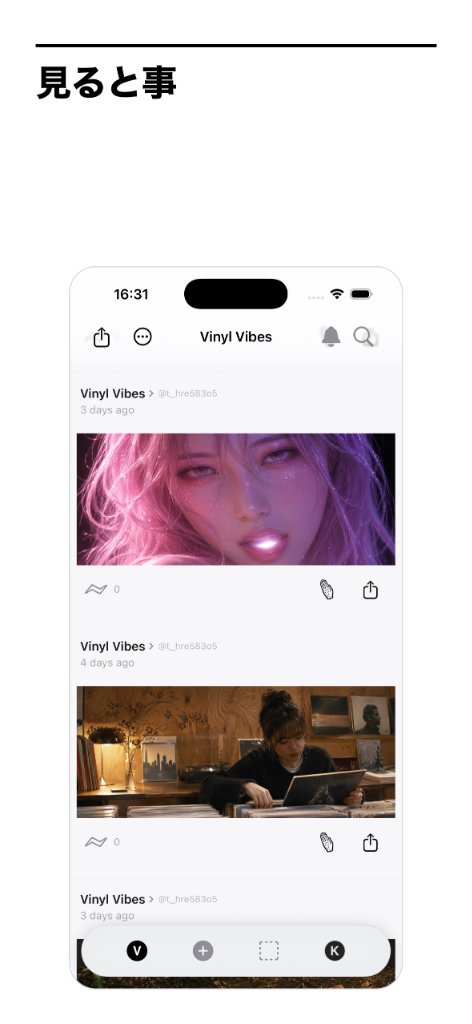
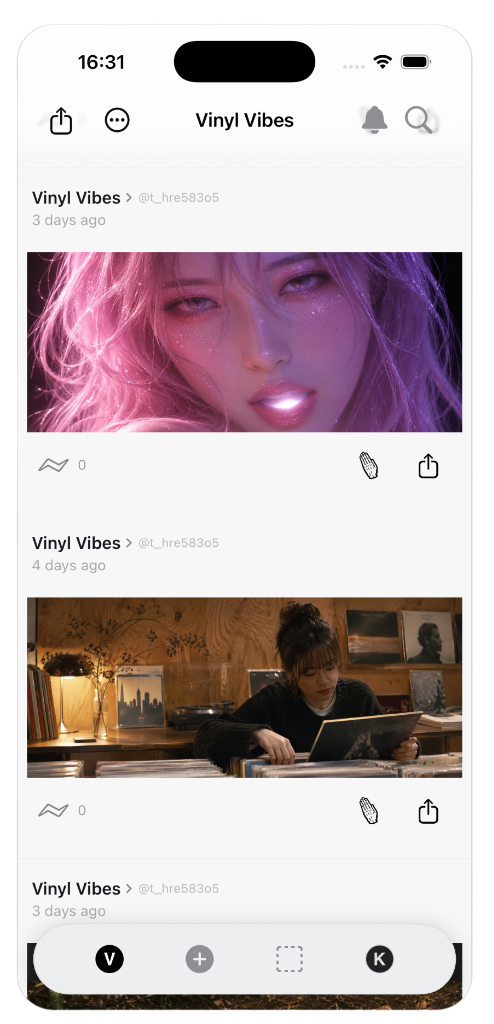
🔔2026年11月22日 Adry紹介ページのスマホ画像を背景透過の最新モックアップPNGへ更新
【変更理由】
ダウンロードカード内のスマホ画像を透過PNGへ差し替え、白背景余白のない洗練された端末表示にするため。

【主要変更】
1. assets/adry/final-phone.png, final-phone.jpg:
   - ユーザー添付の最新透過iPhoneモックアップPNGへ更新。
2. index.html:
   - final-phone.png を指定。
3. commerce/commerce_usage_design.md, Adry.md:
   - 記録更新。

【互換性・検証】
- ブラウザサブエージェントにて実機表示・透過描画を確認完了。

diff --git a/index.html b/index.html
@@ -177,7 +177,7 @@
               <div class="adry-section-inner">
                 <div class="adry-final-card">
                   <div class="adry-final-phone">
-                    <img src="assets/adry/final-phone.jpg" alt="Adryアプリ画面" loading="lazy">
+                    <img src="assets/adry/final-phone.png" alt="Adryアプリ画面" loading="lazy">
                   </div>
                   <div class="adry-final-content">
                     <h3 class="adry-final-headline">App Store で配信中</h3>

diff --git a/commerce/commerce_usage_design.md b/commerce/commerce_usage_design.md
@@ -25,7 +25,7 @@
 8. ヘッダーナビ整理:
    - 研斗さん指示「これ非表示」に基づき、全画面のヘッダーナビゲーションから「特定商取引法に基づく表記」リンクを非表示化（削除）。フッターのリンクには残存。
 9. 最新アプリ画像差し替え:
-   - `index.html`（Adry紹介画面）のダウンロードカードのスマホ画像を、研斗さん添付の最新アプリ画面（「見ると事」・Vinyl Vibes）画像 `final-phone.jpg` へ差し替え。リンク切れを解消。
+   - `index.html`（Adry紹介画面）のダウンロードカードのスマホ画像を、研斗さん添付の透過iPhoneモックアップ画像（Vinyl Vibes） `final-phone.png` へ差し替え。余計な白背景のない透過描画を確認。
 / 補足:
 - 外部API/Firestore Read/Write: 0件（静的HTML/CSS/JS）。
 - 互換性: 法務条文・記述内容および外部リンク・フォーム送信（web3forms）は完全維持。
